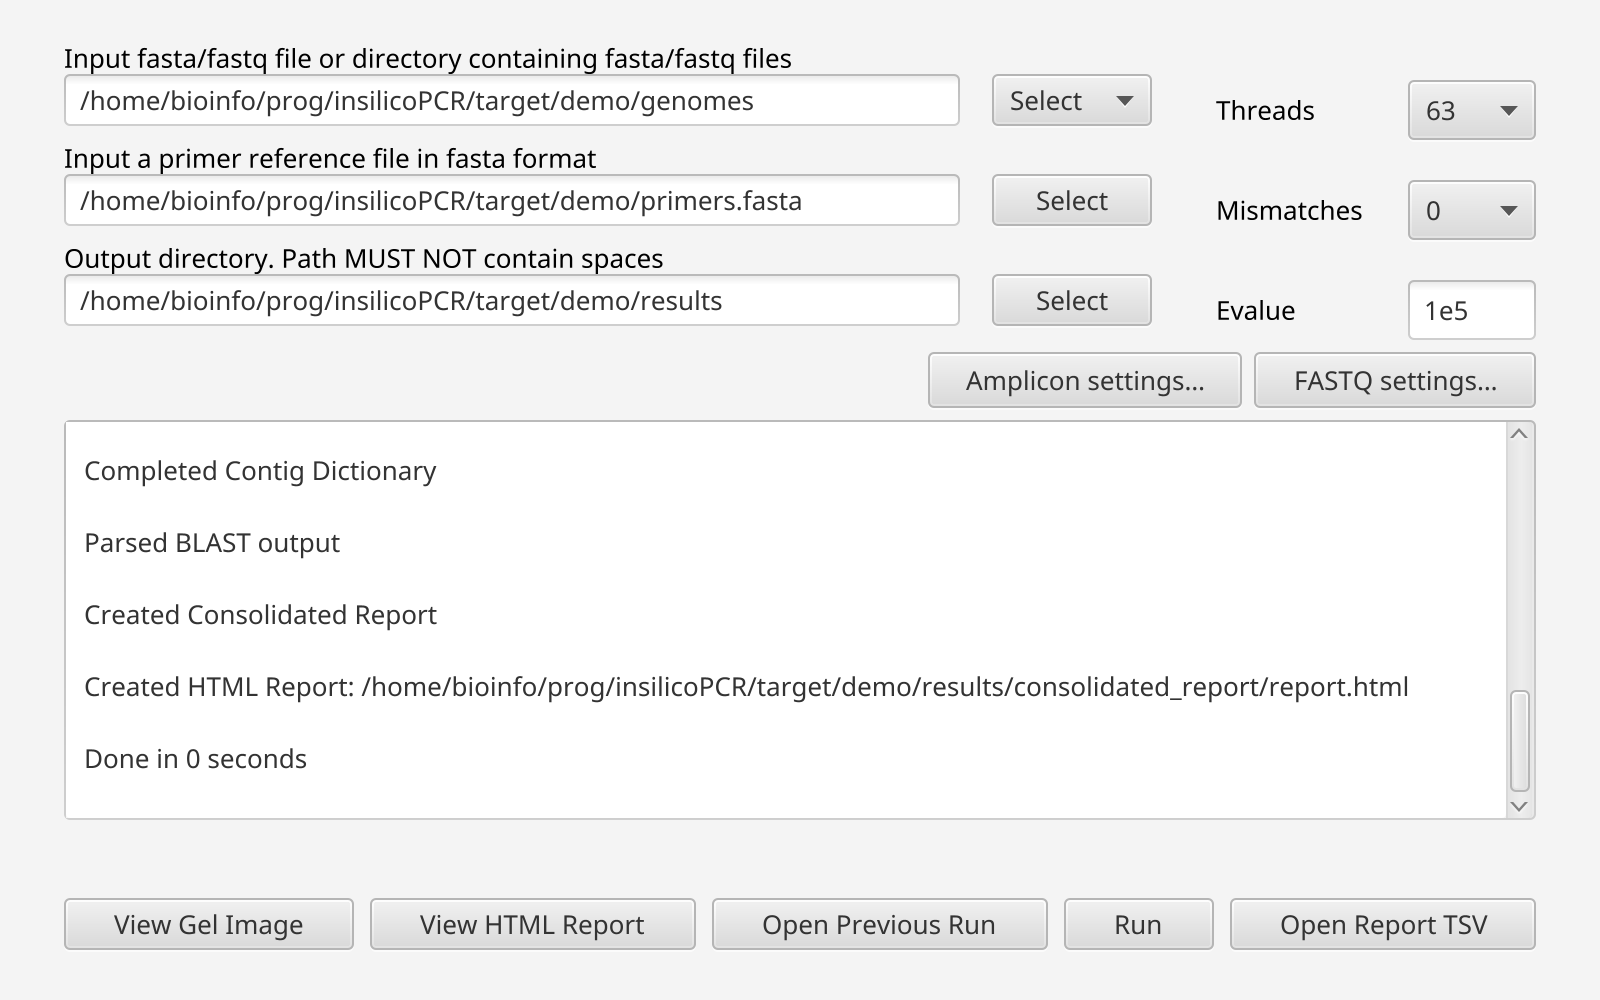
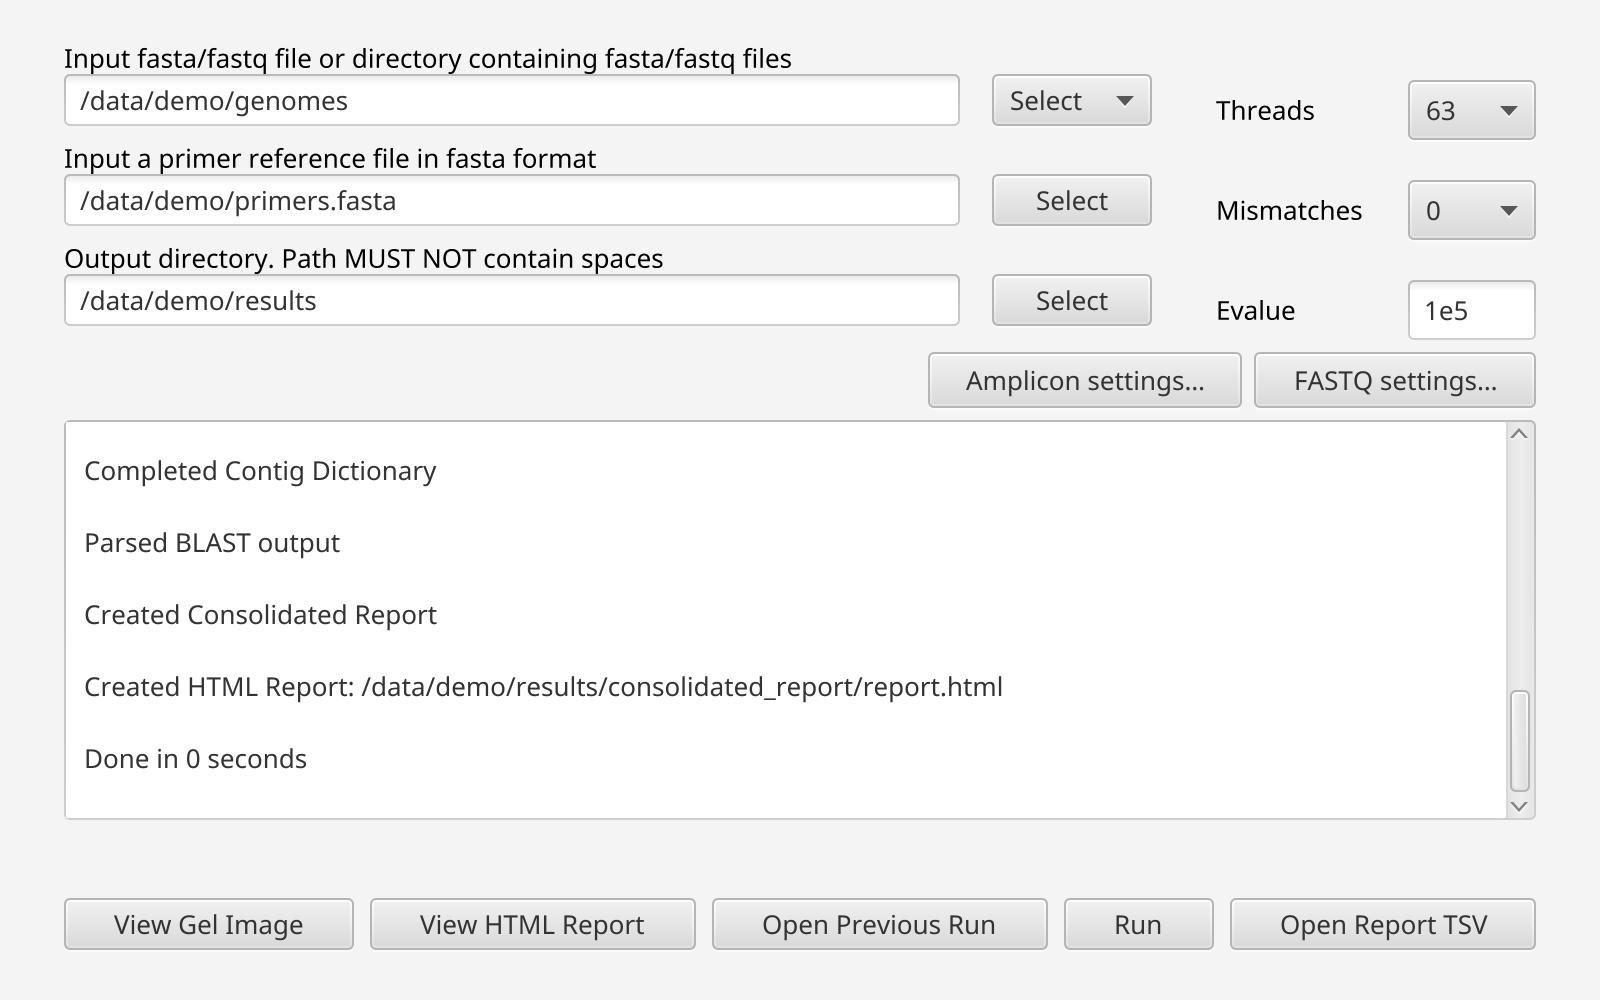
docs: retake the GUI pictures and the example report from a neutral path
The two GUI pictures and the tutorial's example report.html showed the
paths of the machine they were made on. They are regenerated with the
released 0.11.0 from /data/demo and /data/tutorial; report.tsv is
unchanged, and the tutorial's report picture is retaken so that its
timestamp matches the example file.

diff --git a/docs/examples/tutorial/report.html b/docs/examples/tutorial/report.html
@@ -102,7 +102,7 @@ details .names { margin-top: 6px; }
 <main>
 <header>
 <h1>insilicoPCR report</h1>
-<p class="sub">2026-11-10 12:33 · version 0.11.0 · report.tsv</p>
+<p class="sub">2026-11-10 13:45 · version 0.11.0 · report.tsv</p>
 </header>
 <section class="tiles" aria-label="Summary">
 <div class="tile"><span class="n">4</span><span class="l">samples</span></div>
@@ -162,11 +162,11 @@ details .names { margin-top: 6px; }
 <section>
 <h2>Run details</h2>
 <dl class="details">
-<dt>Date</dt><dd>2026-11-10 12:33</dd>
+<dt>Date</dt><dd>2026-11-10 13:45</dd>
 <dt>insilicoPCR version</dt><dd>0.11.0</dd>
-<dt>Input</dt><dd>/home/bioinfo/prog/insilicoPCR/target/tutorial/tutorial_input</dd>
-<dt>Primer file</dt><dd>/home/bioinfo/prog/insilicoPCR/target/tutorial/listeria_assays.fasta</dd>
-<dt>Output folder</dt><dd>/home/bioinfo/prog/insilicoPCR/target/tutorial/tutorial_results</dd>
+<dt>Input</dt><dd>/data/tutorial/tutorial_input</dd>
+<dt>Primer file</dt><dd>/data/tutorial/listeria_assays.fasta</dd>
+<dt>Output folder</dt><dd>/data/tutorial/tutorial_results</dd>
 <dt>Primer mismatches (-m)</dt><dd>0</dd>
 <dt>Probe mismatches</dt><dd>0</dd>
 <dt>3&#39; window / max penalty</dt><dd>5 / 0</dd>
